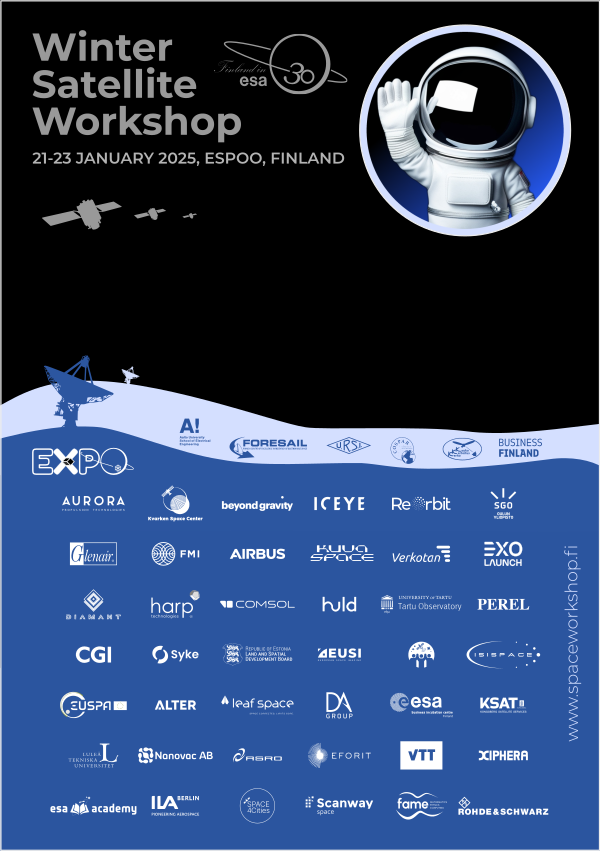
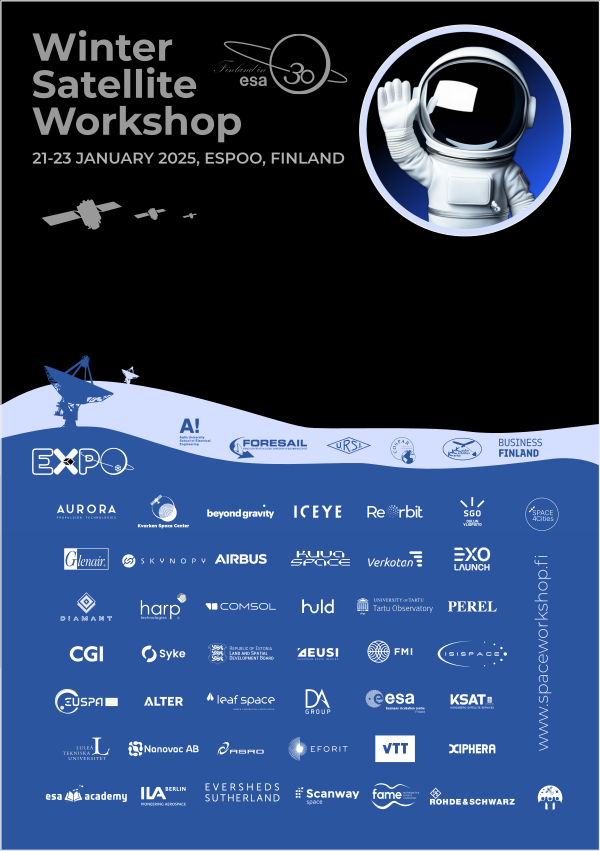
skynopy and lawyers are added

Changed region(s): [[0.06, 0.5499, 0.96, 0.9777]]

diff --git a/index.html b/index.html
@@ -255,6 +255,8 @@
 				<a href="https://www.euspa.europa.eu/" target="_blank"><img class="footer-logo-wide" src="assets/imgs/sponsors/EUSPA_.png" alt="..."></a>
 				<a href="https://www.sgo.fi/" target="_blank"><img class="footer-logo-wide" src="assets/imgs/sponsors/SGO.png" alt="..."></a>
 				<a href="https://www.eforit.fi" target="_blank"><img class="footer-logo-wide" src="assets/imgs/sponsors/EFORIT.png" alt="..."></a>
+				<a href="https://skynopy.com/" target="_blank"><img class="footer-logo-wide" src="assets/imgs/sponsors/Skynopy.png" alt="..."></a>
+				<a href="https://www.eversheds-sutherland.com/en/finland" target="_blank"><img class="footer-logo-wide" src="assets/imgs/sponsors/EVERSHEDS.png" alt="..."></a>
 				
 				
 				
